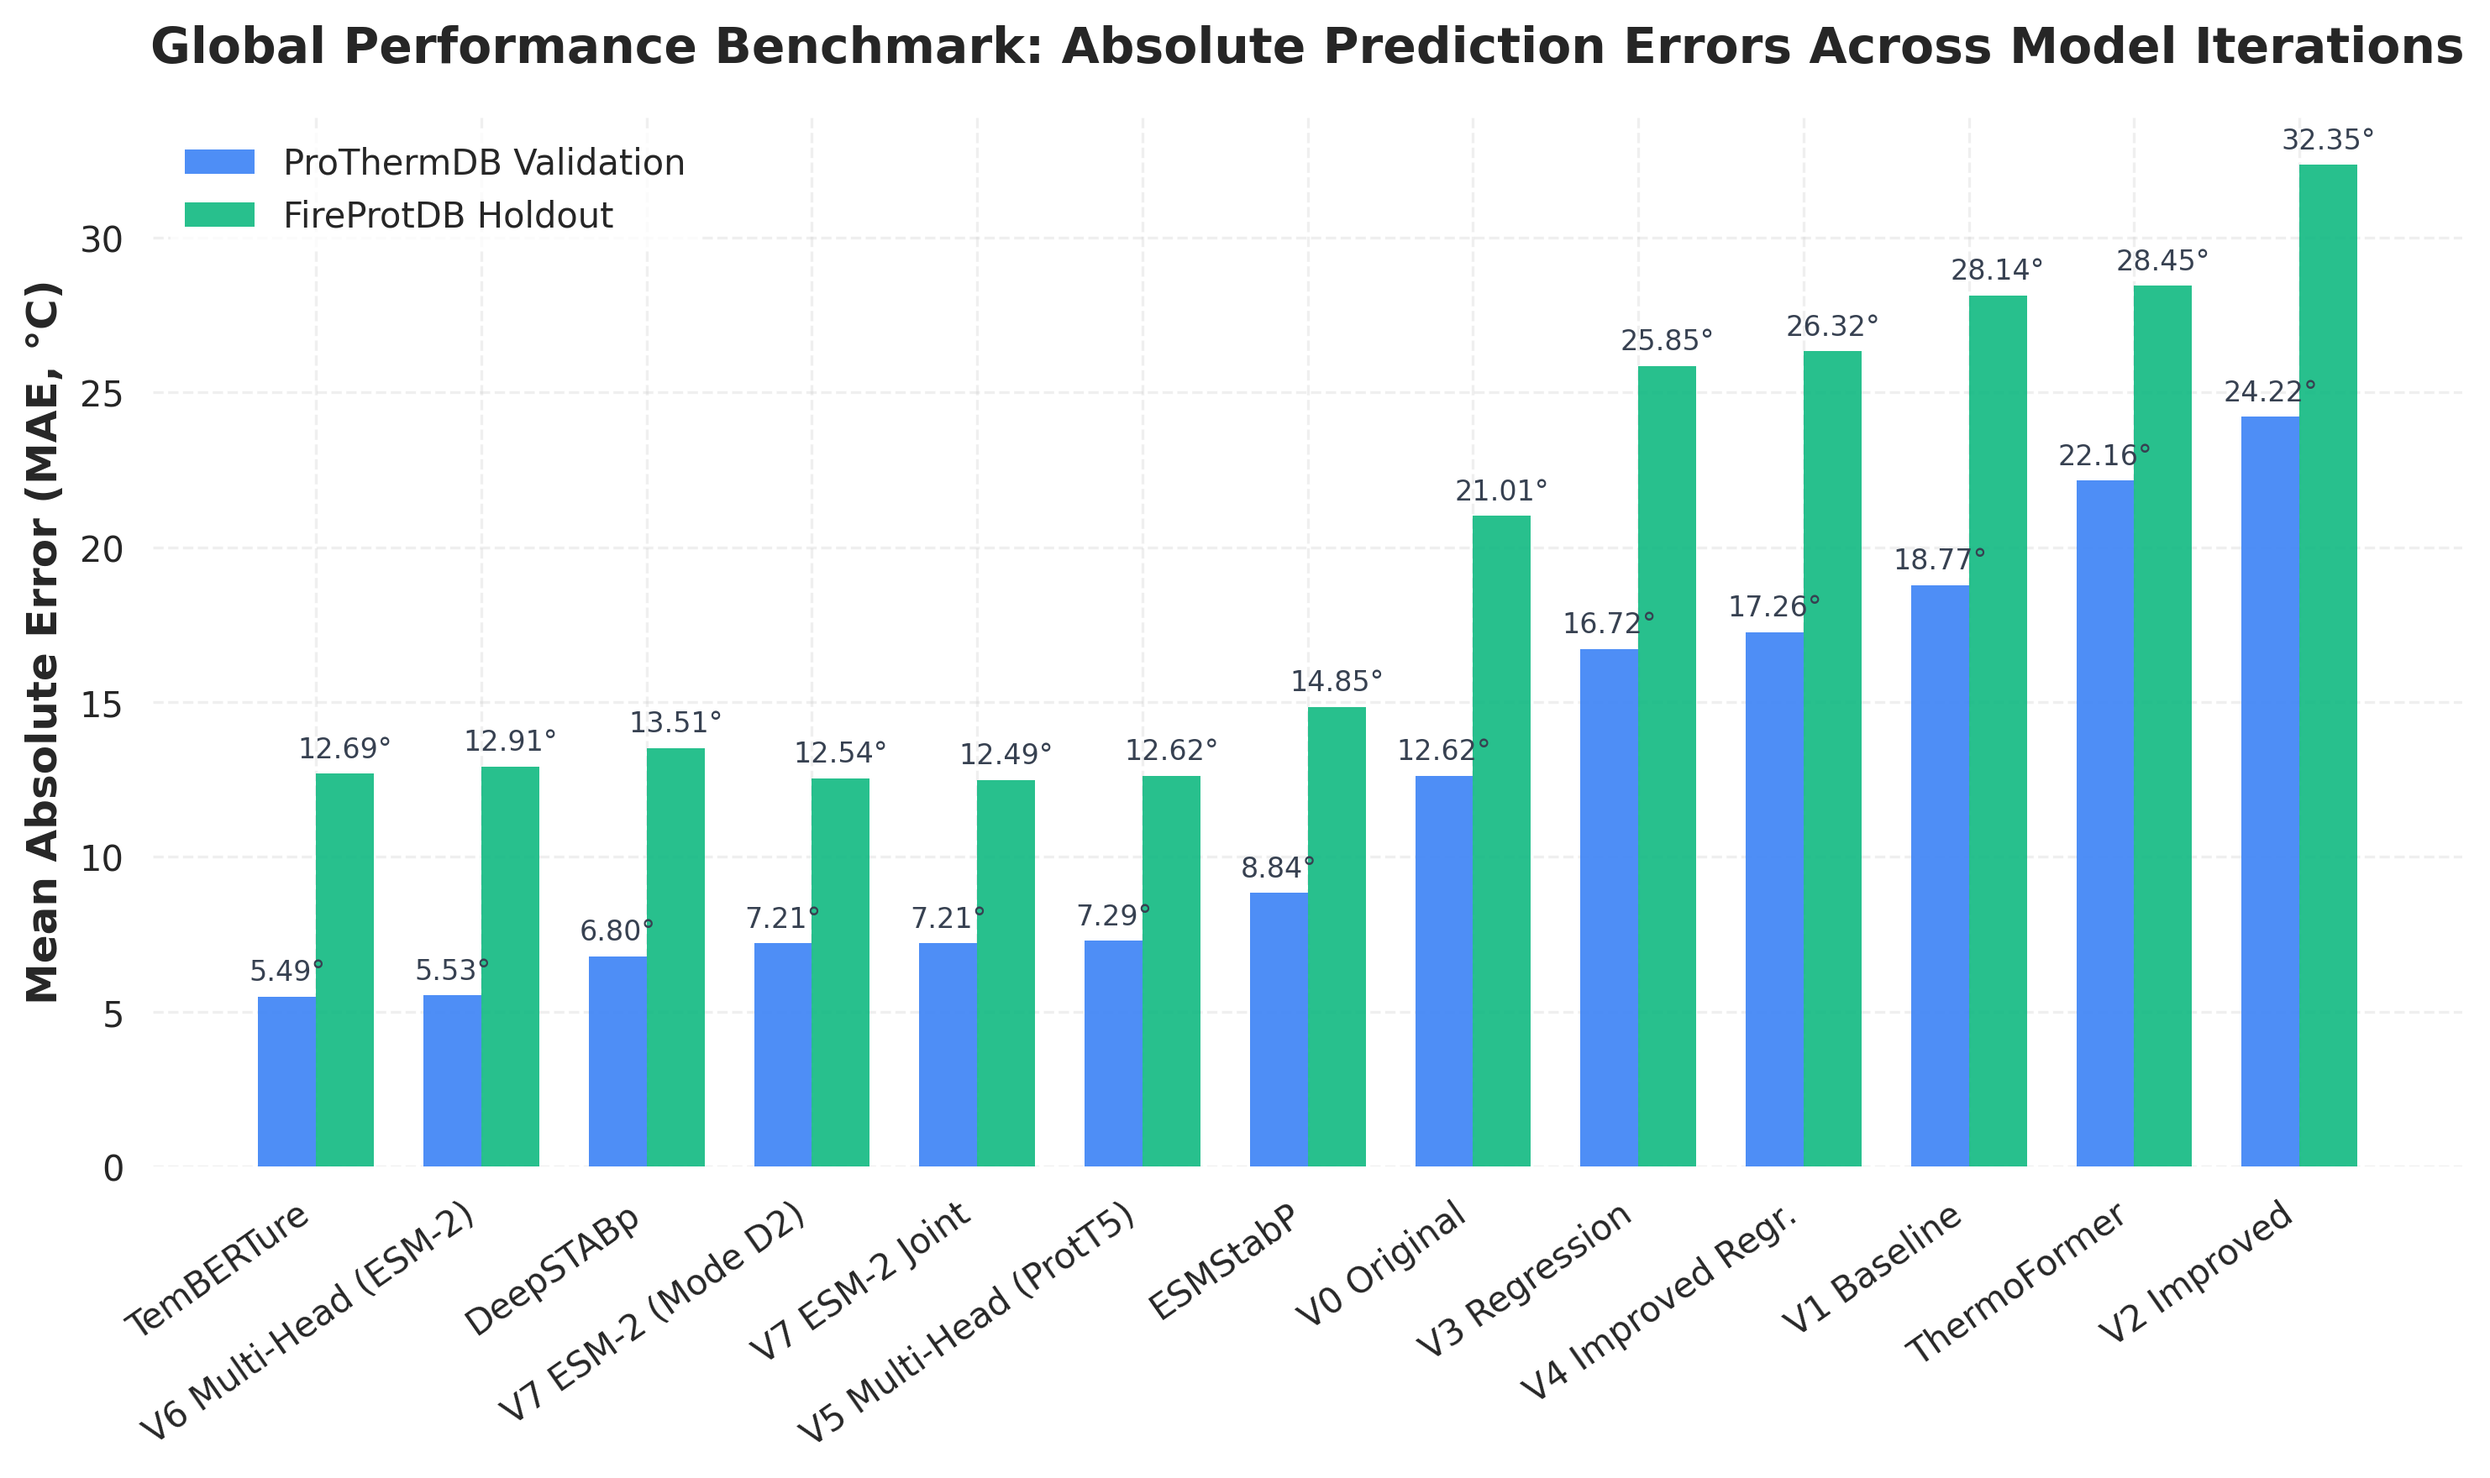
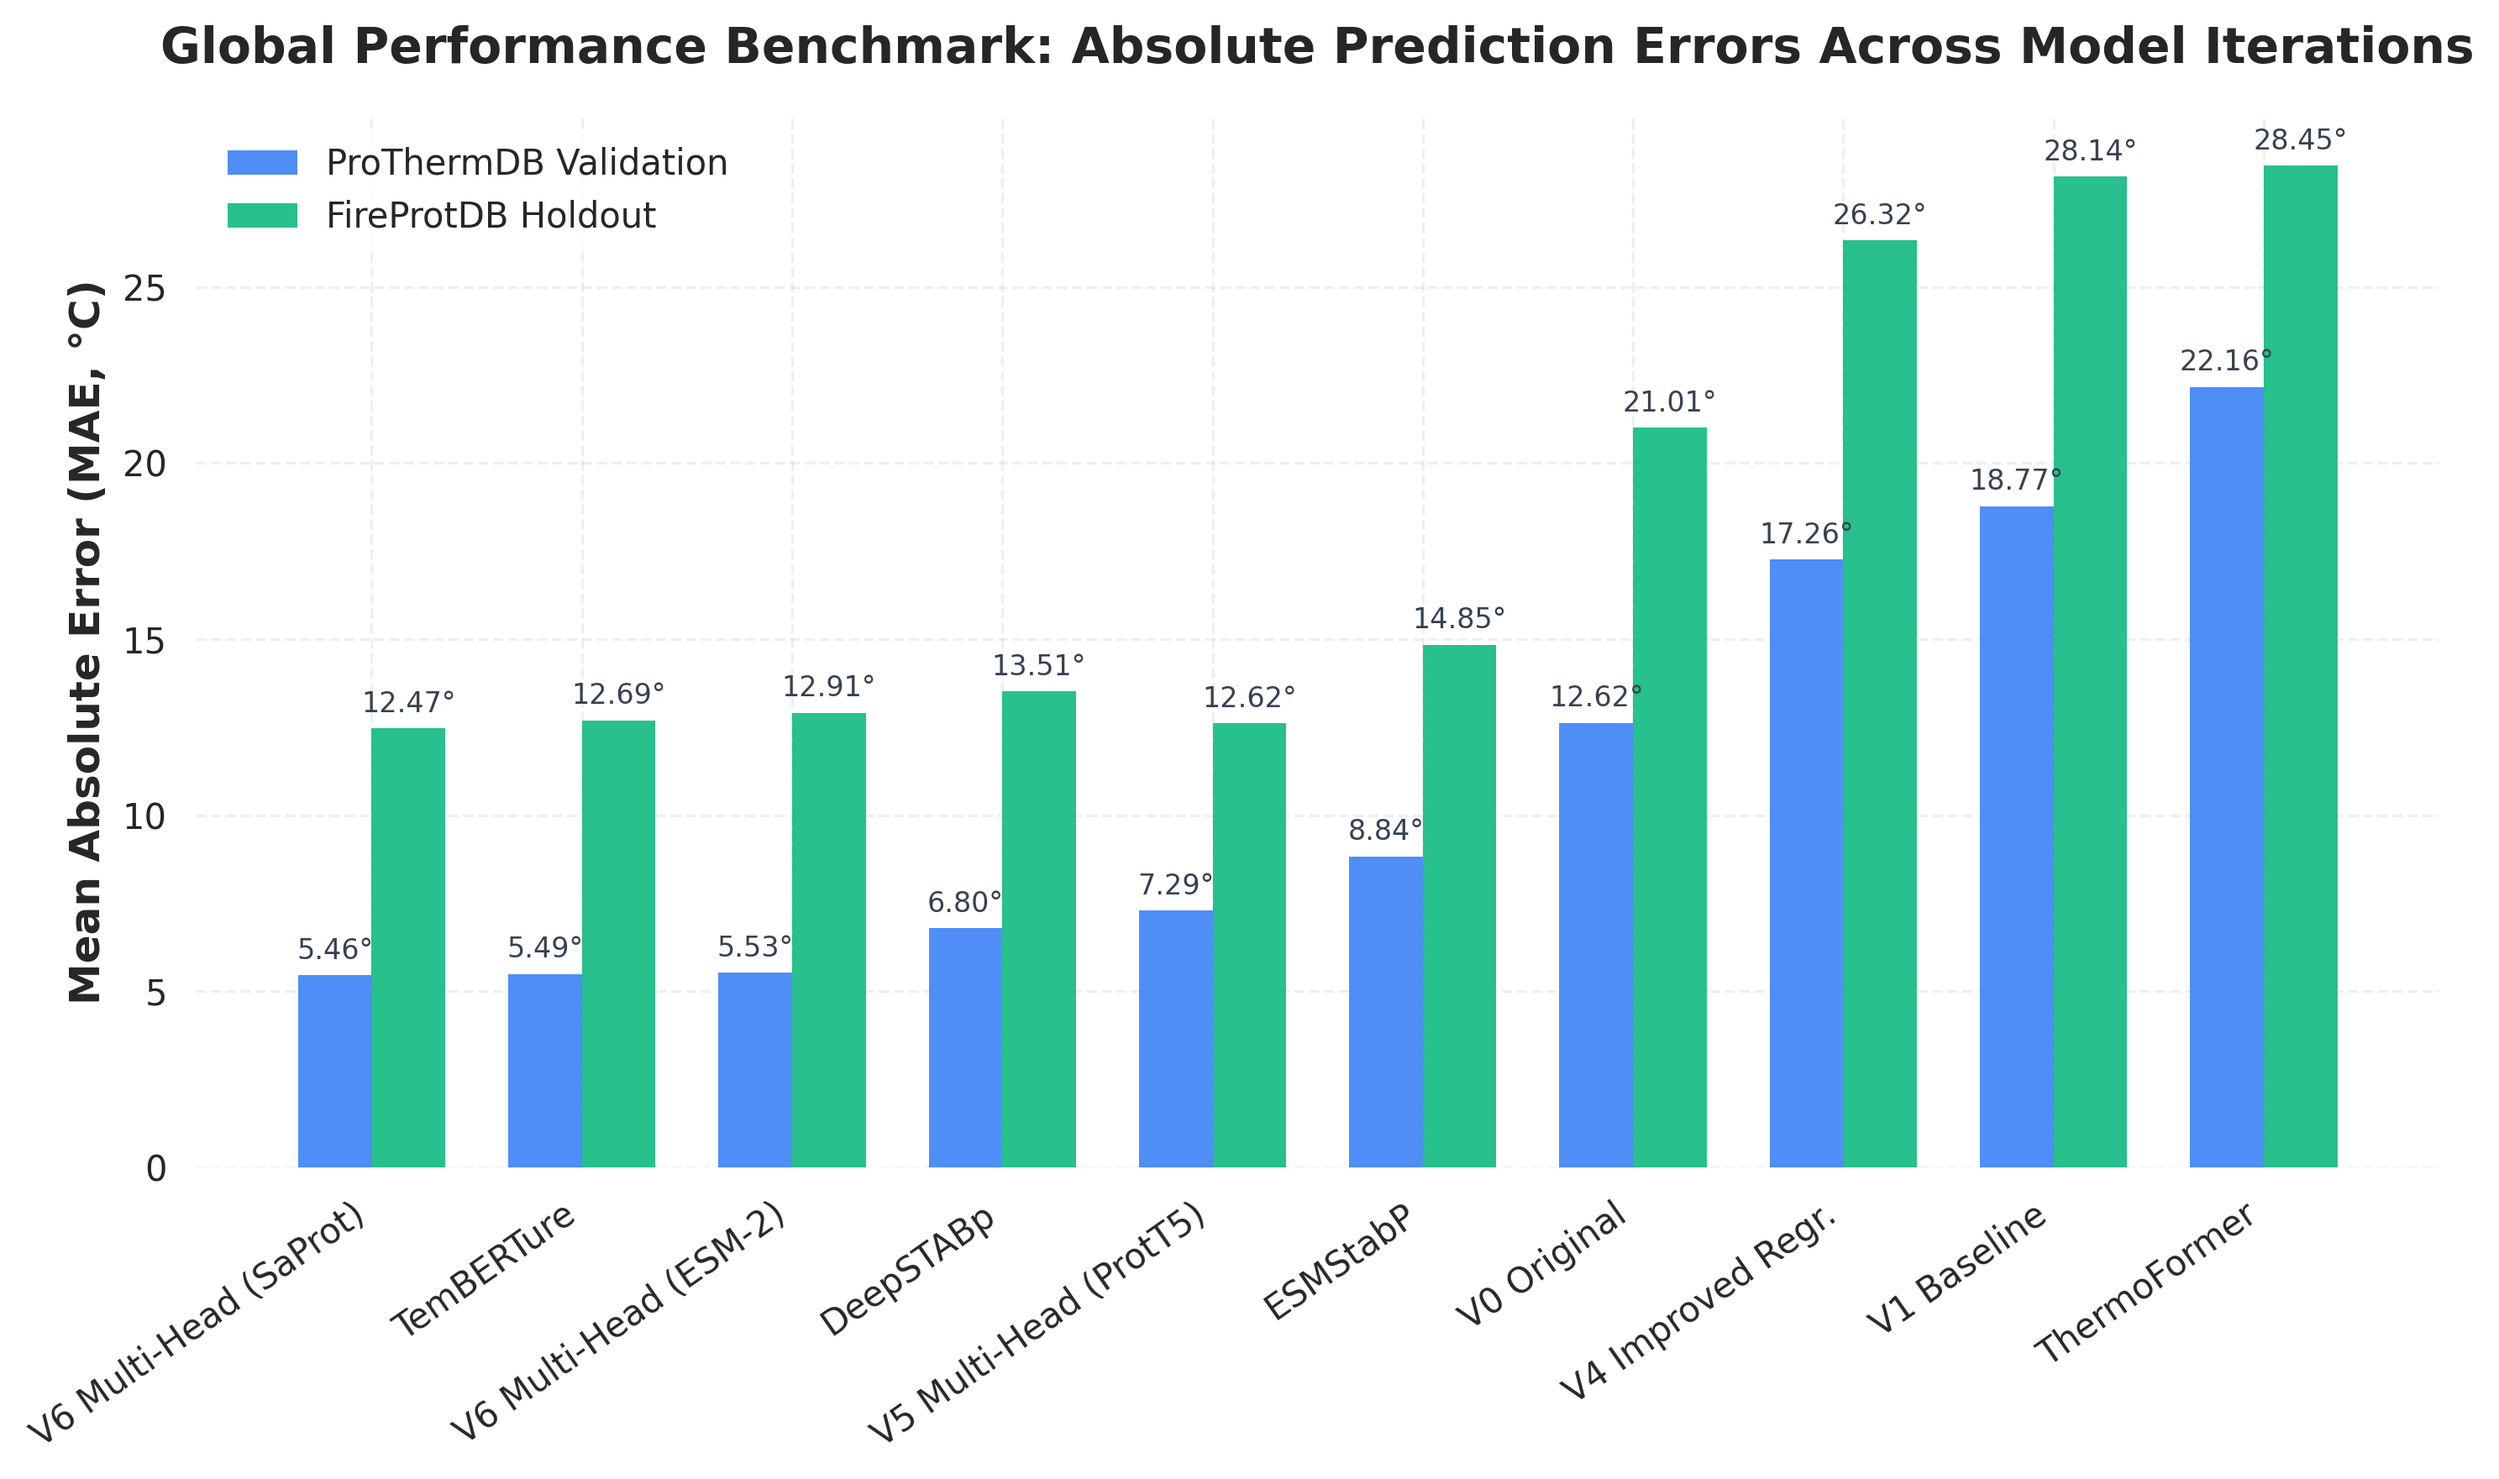
updated plots and tables

diff --git a/paper/writeup/tables/temp_wise_fireprot.md b/paper/writeup/tables/temp_wise_fireprot.md
@@ -1,12 +1,12 @@
 # Temperature-Wise MAE Benchmark on FireProtDB Holdout
 
-| Bin | Range | Count | V0 Original | V1 Baseline | V2 Improved | V3 Regression | V4 Improved Regr. | V5 Multi-Head (ProtT5) | V6 Multi-Head (ESM-2) | V7 ESM-2 (Mode D2) | V7 SaProt (Mode D2) | TemBERTure | ESMStabP | DeepSTABp | ThermoFormer | V7 ESM-2 Joint | V7 SaProt Joint |
-| --- | --- | --- | --- | --- | --- | --- | --- | --- | --- | --- | --- | --- | --- | --- | --- | --- | --- |
-| 20-30 | (20, 30] | 4 | 16.05 | 10.58 | 11.43 | 17.89 | 16.15 | 23.84 | 23.92 | 25.01 | 24.07 | 26.57 | 21.30 | 26.01 | 7.24 | 22.92 | 23.73 |
-| 30-40 | (30, 40] | 6 | 5.87 | 8.77 | 18.34 | 10.36 | 8.23 | 12.10 | 13.67 | 19.30 | 18.87 | 16.52 | 10.20 | 14.36 | 11.61 | 14.85 | 16.42 |
-| 40-50 | (40, 50] | 52 | 7.68 | 14.81 | 21.92 | 11.85 | 12.41 | 4.05 | 5.51 | 9.27 | 7.52 | 6.78 | 4.93 | 5.11 | 17.49 | 7.67 | 5.47 |
-| 50-60 | (50, 60] | 109 | 15.03 | 23.33 | 29.22 | 20.73 | 21.25 | 5.01 | 4.81 | 6.92 | 5.48 | 5.20 | 8.30 | 5.89 | 23.98 | 5.77 | 6.23 |
-| 60-70 | (60, 70] | 59 | 23.92 | 32.89 | 38.31 | 30.45 | 30.64 | 13.24 | 12.51 | 11.40 | 11.67 | 11.79 | 15.86 | 14.07 | 33.47 | 11.70 | 11.17 |
-| 70-80 | (70, 80] | 45 | 30.28 | 38.30 | 41.08 | 35.78 | 36.61 | 21.23 | 21.45 | 15.15 | 17.12 | 19.57 | 22.58 | 21.86 | 36.84 | 18.54 | 19.22 |
-| 80-90 | (80, 90] | 27 | 39.17 | 45.20 | 47.70 | 43.04 | 43.84 | 30.36 | 28.76 | 25.83 | 26.19 | 27.46 | 30.80 | 30.06 | 45.06 | 25.89 | 27.15 |
-| 90-100 | (90, 100] | 18 | 38.06 | 38.88 | 29.79 | 37.20 | 38.19 | 27.75 | 31.88 | 25.69 | 25.40 | 29.91 | 33.92 | 30.66 | 35.10 | 28.05 | 27.53 |
+| Bin | Range | Count | V0 Original | V1 Baseline | V4 Improved Regr. | V5 Multi-Head (ProtT5) | V6 Multi-Head (ESM-2) | V6 Multi-Head (SaProt) | TemBERTure | ESMStabP | DeepSTABp | ThermoFormer |
+| --- | --- | --- | --- | --- | --- | --- | --- | --- | --- | --- | --- | --- |
+| 20-30 | (20, 30] | 4 | 16.05 | 10.58 | 16.15 | 23.84 | 23.92 | 26.11 | 26.57 | 21.30 | 26.01 | 7.24 |
+| 30-40 | (30, 40] | 6 | 5.87 | 8.77 | 8.23 | 12.10 | 13.67 | 15.02 | 16.52 | 10.20 | 14.36 | 11.61 |
+| 40-50 | (40, 50] | 52 | 7.68 | 14.81 | 12.41 | 4.05 | 5.51 | 5.04 | 6.78 | 4.93 | 5.11 | 17.49 |
+| 50-60 | (50, 60] | 109 | 15.03 | 23.33 | 21.25 | 5.01 | 4.81 | 4.92 | 5.20 | 8.30 | 5.89 | 23.98 |
+| 60-70 | (60, 70] | 59 | 23.92 | 32.89 | 30.64 | 13.24 | 12.51 | 11.82 | 11.79 | 15.86 | 14.07 | 33.47 |
+| 70-80 | (70, 80] | 45 | 30.28 | 38.30 | 36.61 | 21.23 | 21.45 | 19.59 | 19.57 | 22.58 | 21.86 | 36.84 |
+| 80-90 | (80, 90] | 27 | 39.17 | 45.20 | 43.84 | 30.36 | 28.76 | 28.89 | 27.46 | 30.80 | 30.06 | 45.06 |
+| 90-100 | (90, 100] | 18 | 38.06 | 38.88 | 38.19 | 27.75 | 31.88 | 31.27 | 29.91 | 33.92 | 30.66 | 35.10 |

diff --git a/paper/writeup/tables/temp_wise_protherm.md b/paper/writeup/tables/temp_wise_protherm.md
@@ -1,10 +1,10 @@
 # Temperature-Wise MAE Benchmark on ProThermDB Validation
 
-| Bin | Range | Count | V0 Original | V1 Baseline | V2 Improved | V3 Regression | V4 Improved Regr. | V5 Multi-Head (ProtT5) | V6 Multi-Head (ESM-2) | V7 ESM-2 (Mode D2) | TemBERTure | ESMStabP | DeepSTABp | ThermoFormer | V7 ESM-2 Joint |
-| --- | --- | --- | --- | --- | --- | --- | --- | --- | --- | --- | --- | --- | --- | --- | --- |
-| 40-50 | (40, 50] | 1157 | 7.16 | 13.70 | 23.82 | 11.14 | 12.07 | 3.84 | 3.47 | 6.48 | 3.81 | 5.28 | 4.12 | 17.08 | 4.97 |
-| 50-60 | (50, 60] | 2534 | 11.95 | 19.97 | 26.29 | 17.34 | 18.25 | 7.19 | 5.09 | 6.91 | 5.13 | 9.30 | 6.44 | 25.43 | 7.48 |
-| 60-70 | (60, 70] | 866 | 17.00 | 24.06 | 31.24 | 22.05 | 22.84 | 13.73 | 10.08 | 11.03 | 9.57 | 15.66 | 12.46 | 27.66 | 11.80 |
-| 70-80 | (70, 80] | 342 | 10.93 | 10.18 | 6.98 | 10.48 | 9.37 | 8.18 | 4.98 | 5.16 | 3.79 | 7.37 | 5.26 | 7.84 | 7.03 |
-| 80-90 | (80, 90] | 530 | 20.87 | 20.50 | 15.21 | 20.58 | 19.32 | 4.18 | 4.91 | 5.09 | 5.10 | 4.24 | 5.85 | 17.74 | 3.56 |
-| 90-100 | (90, 100] | 31 | 26.23 | 27.33 | 18.12 | 27.74 | 26.04 | 7.87 | 8.16 | 10.46 | 8.51 | 8.32 | 10.92 | 23.15 | 4.28 |
+| Bin | Range | Count | V0 Original | V1 Baseline | V4 Improved Regr. | V5 Multi-Head (ProtT5) | V6 Multi-Head (ESM-2) | V6 Multi-Head (SaProt) | TemBERTure | ESMStabP | DeepSTABp | ThermoFormer |
+| --- | --- | --- | --- | --- | --- | --- | --- | --- | --- | --- | --- | --- |
+| 40-50 | (40, 50] | 1157 | 7.16 | 13.70 | 12.07 | 3.84 | 3.47 | 3.29 | 3.81 | 5.28 | 4.12 | 17.08 |
+| 50-60 | (50, 60] | 2534 | 11.95 | 19.97 | 18.25 | 7.19 | 5.09 | 4.98 | 5.13 | 9.30 | 6.44 | 25.43 |
+| 60-70 | (60, 70] | 866 | 17.00 | 24.06 | 22.84 | 13.73 | 10.08 | 10.27 | 9.57 | 15.66 | 12.46 | 27.66 |
+| 70-80 | (70, 80] | 342 | 10.93 | 10.18 | 9.37 | 8.18 | 4.98 | 5.09 | 3.79 | 7.37 | 5.26 | 7.84 |
+| 80-90 | (80, 90] | 530 | 20.87 | 20.50 | 19.32 | 4.18 | 4.91 | 4.76 | 5.10 | 4.24 | 5.85 | 17.74 |
+| 90-100 | (90, 100] | 31 | 26.23 | 27.33 | 26.04 | 7.87 | 8.16 | 7.65 | 8.51 | 8.32 | 10.92 | 23.15 |

diff --git a/paper/writeup/tables/table3_fireprot.md b/paper/writeup/tables/table3_fireprot.md
@@ -2,15 +2,10 @@
 |:---|:---|:---:|:---:|:---:|:---:|:---:|:---:|:---:|:---:|
 | **TemStaPro (V0 Original)** | Pre-trained Binary Proxy Ensemble | 21.01 | 0.47 | -1.53 | 0.299 | 0.27 | 0.63 | 31.9% | 0.594 |
 | **V1 Baseline** | Retrained Binary Proxy Ensemble | 28.14 | 0.48 | -3.10 | 0.249 | 0.20 | 0.60 | 44.0% | 0.594 |
-| **V2 Improved** | Specialized Binary Proxy Ensemble | 32.35 | 0.49 | -4.54 | 0.312 | 0.29 | 0.63 | 52.2% | 0.594 |
-| **V3 Regression** | Continuous Single-Head OGT Proxy | 25.85 | 0.43 | -2.56 | 0.278 | 0.24 | 0.60 | 40.4% | 0.594 |
 | **V4 Improved Regr.** | Residual Continuous OGT Proxy | 26.32 | 0.46 | -2.65 | 0.241 | 0.19 | 0.59 | 41.0% | 0.594 |
 | **V5 Multi-Head (ProtT5)** | Dedicated $T_m$ Head (ProtT5) | 12.62 | 0.50 | -0.18 | 0.303 | 0.30 | 0.62 | 18.9% | 0.594 |
 | **V6 Multi-Head (ESM-2)** | Dedicated $T_m$ Head (ESM-2 3B) | 12.91 | 0.44 | -0.22 | 0.295 | 0.32 | 0.62 | 19.4% | 0.531 |
-| **V7 ESM-2 (Mode D2)** | Dedicated $T_m$ Head (Clean OGT) | 12.54 | 0.33 | -0.10 | 0.181 | 0.44 | 0.60 | 20.2% | 0.438 |
-| **V7 SaProt (Mode D2)** | Dedicated $T_m$ Head (SaProt) | 12.12 | 0.42 | -0.05 | 0.228 | 0.42 | 0.61 | 19.1% | 0.562 |
-| **V7 ESM-2 Joint** | **Weighted Multi-Task ESM-2** | **12.49** | **0.39** | **-0.10** | **0.219** | **0.42** | **0.60** | **19.4%** | **0.531** |
-| **V7 SaProt Joint** | **Weighted Multi-Task SaProt** | **12.38** | **0.42** | **-0.13** | **0.283** | **0.45** | **0.63** | **19.1%** | **0.625** |
+| **V6 Multi-Head (SaProt)** | **Dedicated $T_m$ Head (SaProt)** | **12.47** | **0.41** | **-0.17** | **0.253** | **0.36** | **0.62** | **19.3%** | **0.469** |
 | **TemBERTure** | External Reference (Fine-Tuned) | 12.70 | 0.37 | -0.16 | 0.222 | 0.36 | 0.60 | 19.6% | 0.562 |
 | **ESMStabP** | External Reference (Dedicated SOTA) | 14.85 | 0.33 | -0.51 | 0.150 | 0.33 | 0.58 | 22.4% | 0.375 |
 | **DeepSTABp** | External Reference (Dedicated SOTA) | 13.51 | 0.44 | -0.30 | 0.288 | 0.30 | 0.60 | 20.5% | 0.531 |

diff --git a/paper/writeup/tables/table1_prothermdb.md b/paper/writeup/tables/table1_prothermdb.md
@@ -2,13 +2,10 @@
 |:---|:---|:---:|:---:|:---:|:---:|:---:|:---:|:---:|:---:|
 | **TemStaPro (V0 Original)** | Pre-trained Binary Proxy Ensemble | 12.62 | 0.74 | -0.51 | 0.706 | 0.75 | 0.80 | 21.0% | 0.505 |
 | **V1 Baseline** | Retrained Binary Proxy Ensemble | 18.77 | 0.78 | -1.96 | 0.666 | 0.70 | 0.79 | 32.2% | 0.493 |
-| **V2 Improved** | Specialized Binary Proxy Ensemble | 24.22 | 0.72 | -4.42 | 0.699 | 0.75 | 0.78 | 43.3% | 0.524 |
-| **V3 Regression** | Continuous Single-Head OGT Proxy | 16.72 | 0.74 | -1.46 | 0.669 | 0.71 | 0.78 | 28.5% | 0.513 |
 | **V4 Improved Regr.** | Residual Continuous OGT Proxy | 17.26 | 0.78 | -1.55 | 0.679 | 0.72 | 0.79 | 29.7% | 0.511 |
 | **V5 Multi-Head** | Dedicated $T_m$ Head (ProtT5) | 7.29 | 0.84 | 0.44 | 0.711 | 0.75 | 0.88 | 12.5% | 0.557 |
-| **V6 Multi-Head** | Dedicated $T_m$ Head (ESM-2 3B) | **5.53** | **0.85** | **0.63** | **0.710** | **0.76** | **0.87** | **9.4%** | **0.668** |
-| **V7 ESM-2 (Mode D2)** | Transfer Learning Clean (ESM-2) | 7.21 | 0.77 | 0.43 | 0.608 | 0.72 | 0.85 | 12.7% | 0.505 |
-| **V7 ESM-2 Joint** | **Weighted Multi-Task ESM-2** | **7.21** | **0.82** | **0.41** | **0.655** | **0.74** | **0.86** | **12.6%** | **0.637** |
+| **V6 Multi-Head (ESM-2)** | Dedicated $T_m$ Head (ESM-2 3B) | 5.53 | 0.85 | 0.63 | 0.710 | 0.76 | 0.87 | 9.4% | 0.668 |
+| **V6 Multi-Head (SaProt)** | **Dedicated $T_m$ Head (SaProt)** | **5.46** | **0.86** | **0.64** | **0.719** | **0.77** | **0.87** | **9.3%** | **0.667** |
 | **TemBERTure** | External Reference (Fine-Tuned) | 5.49 | 0.86 | 0.66 | 0.715 | 0.77 | 0.87 | 9.4% | 0.716 |
 | **ESMStabP** | External Reference (Dedicated SOTA) | 8.84 | 0.76 | 0.21 | 0.540 | 0.67 | 0.81 | 15.3% | 0.559 |
 | **DeepSTABp** | External Reference (Dedicated SOTA) | 6.80 | 0.83 | 0.50 | 0.708 | 0.76 | 0.85 | 11.6% | 0.562 |

diff --git a/paper/writeup/tables/table2_ogt.md b/paper/writeup/tables/table2_ogt.md
@@ -1,7 +1,5 @@
 | Model Iteration | 0-10°C | 10-20°C | 20-30°C | 30-40°C | 40-50°C | 50-60°C | 60-70°C | 70-80°C | 80-90°C | 90-100°C | Overall MAE |
 |:---|:---:|:---:|:---:|:---:|:---:|:---:|:---:|:---:|:---:|:---:|:---:|
 | **TemStaPro (V0)** | 33.1 | 23.6 | 11.5 | 7.5 | 6.6 | 6.2 | 4.7 | 9.1 | 19.2 | 30.0 | 10.95 |
-| **V2 Improved** | **9.1** | **10.6** | 9.9 | 12.2 | 13.5 | 12.6 | 10.6 | **9.1** | **7.9** | **6.4** | 10.42 |
-| **V3 Regression** | 24.8 | 15.5 | 3.9 | 4.0 | **7.9** | **9.8** | **10.3** | 9.5 | 11.1 | 13.1 | **5.66** |
 | **V4 Improved** | 24.8 | 15.4 | **3.6** | 3.9 | 8.3 | 10.6 | 11.2 | 10.2 | 11.5 | 13.1 | **5.72** |
 | **V5 Multi-Head** | 24.9 | 15.5 | 3.7 | **3.5** | 8.9 | 11.1 | 11.2 | 10.5 | 12.1 | 14.3 | **5.77** |
